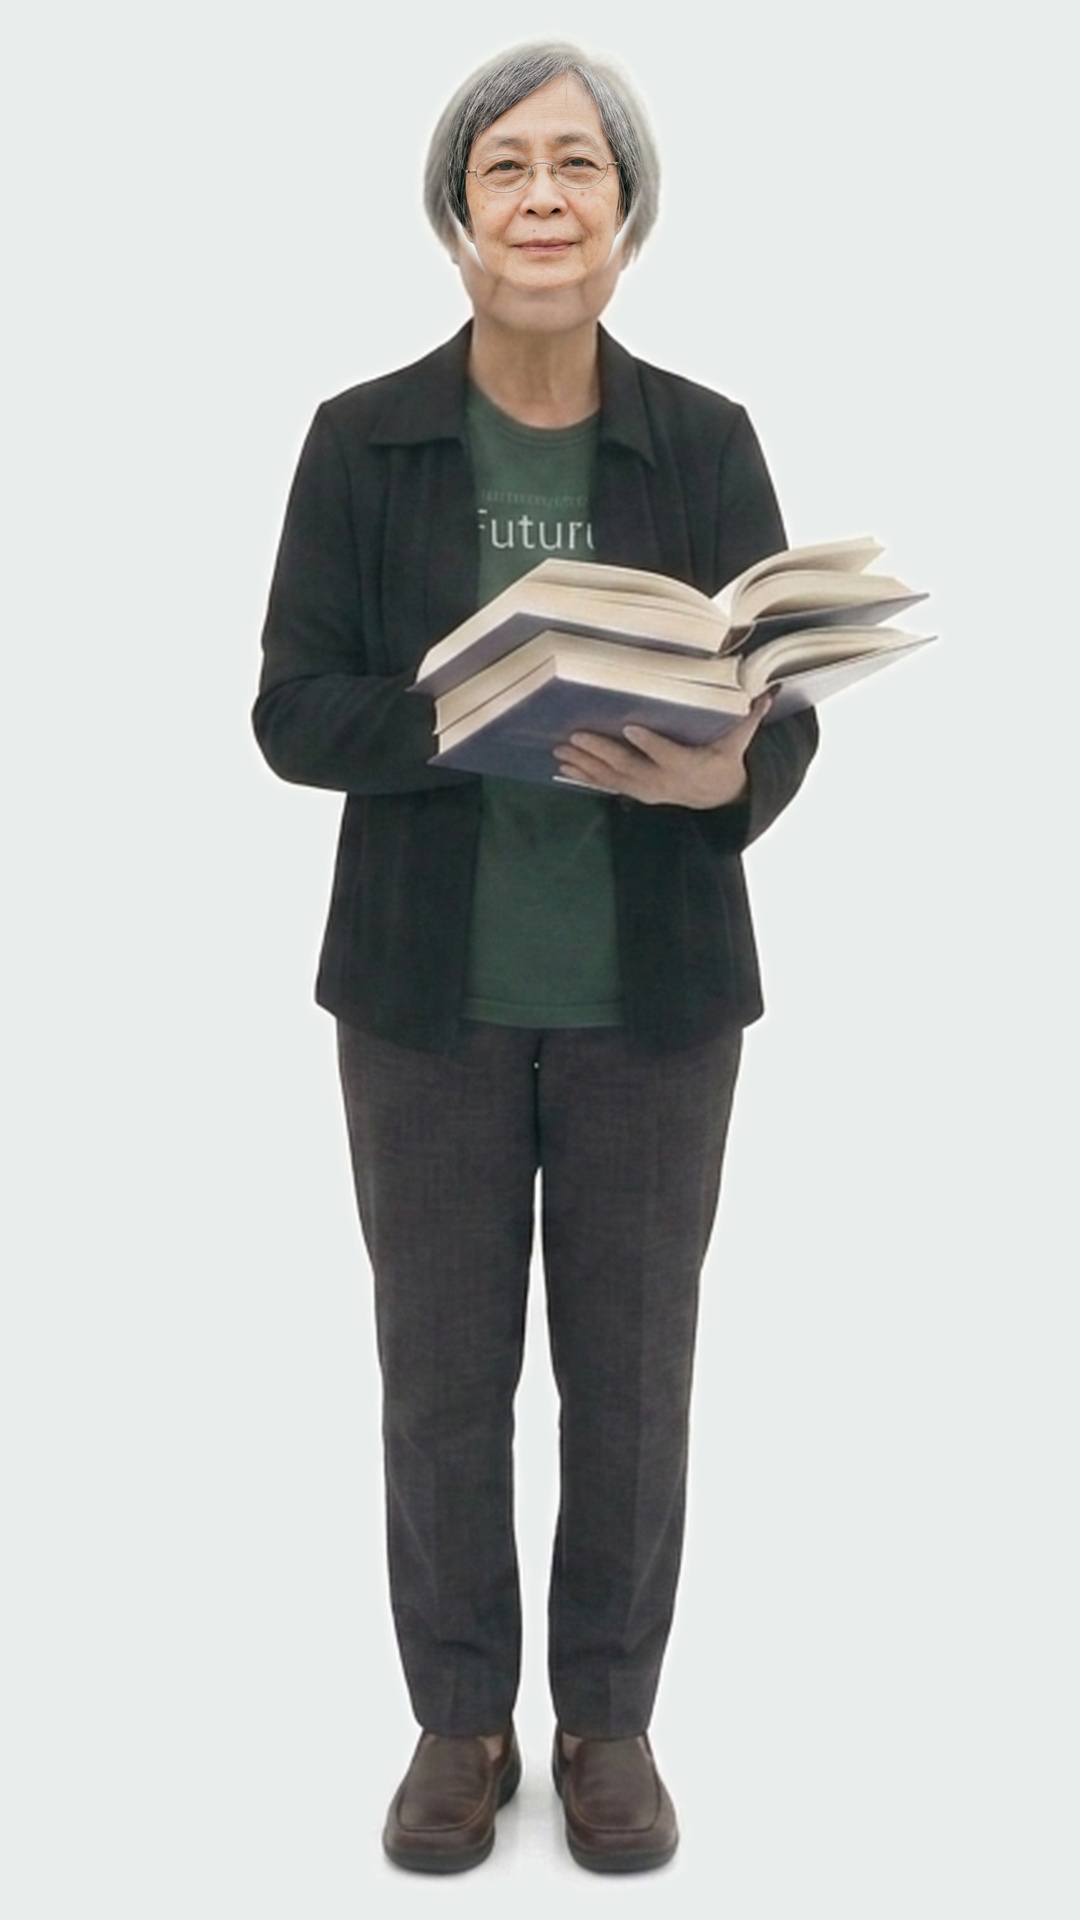
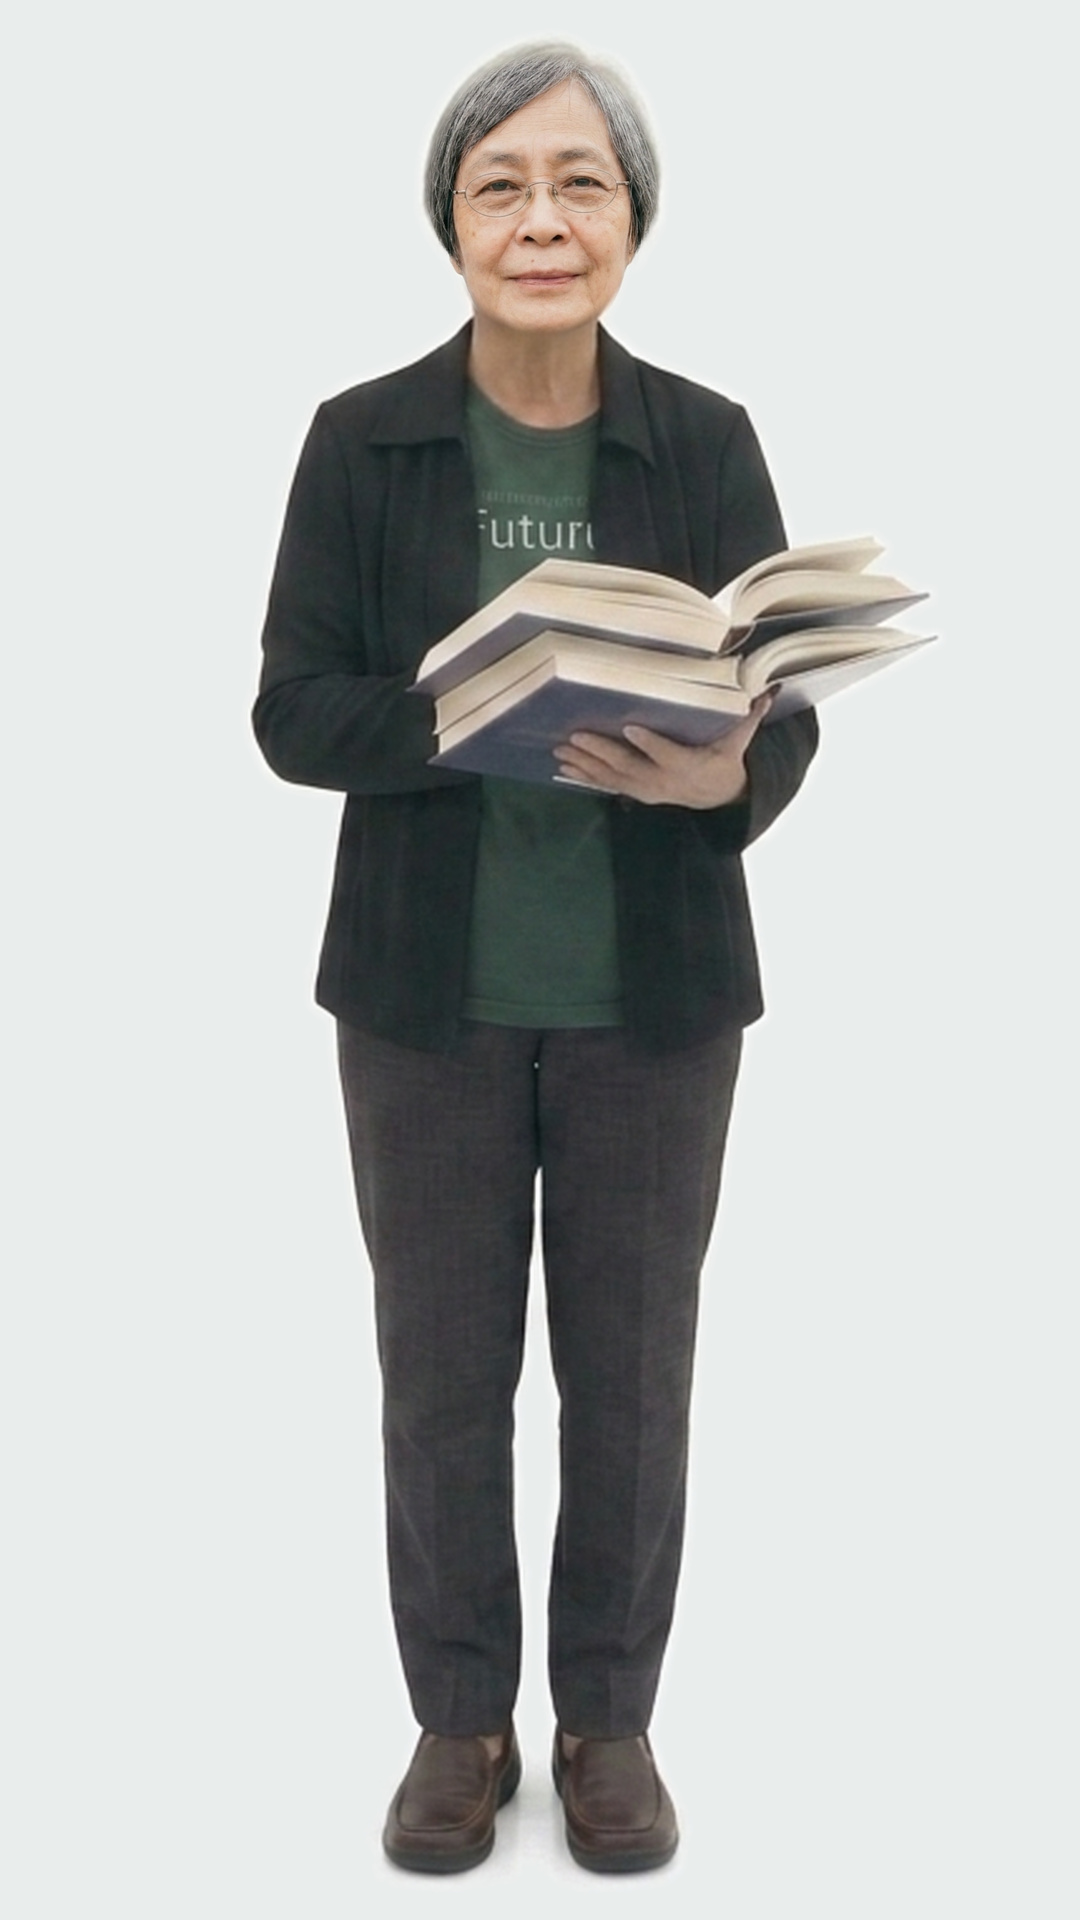
fix(live2): 站姿的臉糊掉——幾何量錯了，橢圓蓋不到頭髮
使用者回報「站姿的臉很奇怪」。放大看是一顆糊掉、邊緣帶光暈的頭。

🔴 原因是我把幾何量在**來源圖**上，而不是底圖上。
來源圖只有 800px 高，自動找「頭部下方最窄的一列」在那個解析度下抓到的是
下顎不是脖子，量出髮頂→脖子 89（坐姿量到 107），於是推出「站姿的頭小 21%」，
影片框只給了 73% 寬。

改在底圖（1080×1920）逐列量寬度，兩張圖的頭**一模一樣大**：
  站姿 髮頂 38、最寬 237@y182~194、最窄 129@y314 → 髮頂→脖子 276
  坐姿 髮頂 44、最寬 240@y188~200、最窄 132@y320 → 髮頂→脖子 276

後果很具體：橢圓跟著縮小，烘焙的外圈（r=1.12）只有 204px 寬，而頭是 236px
寬——頭髮兩側蓋不到，照片的頭髮淡進 AI 的頭髮，就是那顆糊掉的頭。

STAGE_BOX 13.11/0.74/73.00/23.10 → 7.37/0.55/84.31/26.67（幾乎等於坐姿，
因為頭一樣大，只差髮頂位置 6px）。底圖用正確的橢圓（中心 542,193、
半徑 105×127）重新烘一次。

⚠ 教訓寫進 poses.ts：**幾何一律在底圖座標系量，不要在來源圖上量再乘縮放。**
順帶更正：站姿的臉跟坐姿一樣大，之前說「小 21%」是這個錯誤推出來的。

Changed region(s): [[0.3972, 0.0312, 0.6111, 0.1875]]

diff --git a/components/avatar/poses.ts b/components/avatar/poses.ts
@@ -62,21 +62,29 @@ export const POSE_SEATED: Pose = {
 /**
  * 站姿：雙手捧著一本翻開的書。`/live2` 用這個。
  *
- * ⚠ 她在這張圖裡**站得比較遠**：頭只佔全身高度的 12.2%（坐姿是 15.4%），
- * 所以影片框比坐姿小一截（73% vs 84.85% 的舞台寬度），臉在螢幕上也小約 21%。
- * 這是使用者知情後選的（要保留全身），不是算錯。
+ * 🔴 **這裡曾經算錯過一次，症狀是「站姿的臉很奇怪」。**
+ * 第一版拿**來源圖**去量「髮頂→脖子」，量到 89（坐姿量到 107），於是推出
+ * 影片框只有 73% 寬、臉小 21%。那個數字是錯的——來源圖只有 800px 高，
+ * 自動找「頭部下方最窄的一列」在那個解析度下抓到的是下顎不是脖子。
+ * 改在**底圖**（1080×1920）上逐列量寬度，兩張圖的頭其實**一模一樣大**：
+ *   站姿 髮頂 38、最寬 237@y182~194、最窄 129@y314 → 髮頂→脖子 276
+ *   坐姿 髮頂 44、最寬 240@y188~200、最窄 132@y320 → 髮頂→脖子 276
+ * 錯誤的後果很具體：橢圓跟著縮小，烘焙的外圈（r=1.12）只有 204px 寬，
+ * 而頭是 236px 寬——頭髮兩側蓋不到，照片的頭髮淡進 AI 的頭髮，
+ * 畫面上就是一顆糊掉、邊緣有光暈的頭。
+ * ⚠ 教訓：**幾何一律在底圖座標系量，不要在來源圖上量再乘縮放**。
  *
  * ⚠ 這一版的書是**翻開的**，沒有封面可貼——坐姿那本《我來了》的透視合成
  * 在這裡做不到。要讓書名出現只能重新生成一張「拿著合起來的書」的站姿圖。
  *
- * 底圖的量測值（1080×1920）：髮頂 y=38、頭中心 x=542、髮頂→脖子 239、腳底 1882。
+ * 底圖的量測值（1080×1920）：髮頂 y=38、頭中心 x=542、髮頂→脖子 276、腳底 1882。
  * 來源 `~/Desktop/Gemini_Generated_Image_3vlm8g…`，
  * viewport `430x764+464+41` → `-resize 1080x1920!`。
  */
 export const POSE_STANDING: Pose = {
   src: "/avatar-fullbody-standing.jpg",
   poster: "/avatar-poster-stage.jpg",
-  box: { left: "13.11%", top: "0.74%", width: "73.00%", height: "23.10%" },
+  box: { left: "7.37%", top: "0.55%", width: "84.31%", height: "26.67%" },
 };
 
 /**

diff --git a/lib/live/pose.test.ts b/lib/live/pose.test.ts
@@ -30,7 +30,7 @@ describe("姿勢幾何", () => {
     expect(POSE_STANDING).toEqual({
       src: "/avatar-fullbody-standing.jpg",
       poster: "/avatar-poster-stage.jpg",
-      box: { left: "13.11%", top: "0.74%", width: "73.00%", height: "23.10%" },
+      box: { left: "7.37%", top: "0.55%", width: "84.31%", height: "26.67%" },
     });
   });
 
